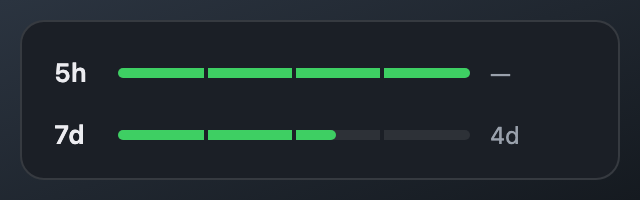
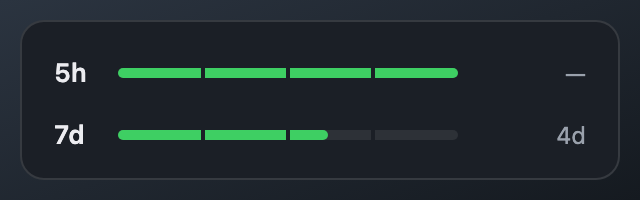
The panel is the size of what it holds
The window's floor was 120 px against 80 px of content, so two rows sat on
forty pixels of dead panel. The line stopped at a fixed 176 px and the
countdowns ended each row wherever their text ran out, leaving a ragged margin
down the right.

The line now takes whatever the name and the countdown leave, the countdowns
share one right-aligned column, and the window closes on the last row.

Claude-Session: https://claude.ai/code/session_01G9UiyVncQyDqDUhci5medM

diff --git a/src/styles.css b/src/styles.css
@@ -14,9 +14,6 @@ html, body {
 /* The panel floats over someone else's screen, so the surface is opaque:
    translucency is only for windows that sit over our own backdrop. */
 .panel {
-  /* How long a full bar is. The window is 320 wide; the name to the left and
-     the longest countdown to the right take the rest. */
-  --track: 176px;
   box-sizing: border-box;
   /* min-height, not height: the window is sized to this box, and a wrapped
      line has to make the box taller rather than be cut off by it. */
@@ -64,9 +61,11 @@ html, body {
    last land in the same glance. */
 .gauge {
   position: relative;
-  width: var(--track);
+  /* Takes whatever the name and the countdown leave: a fixed track left a
+     margin of dead panel on the right, and the longer the line, the finer the
+     reading it can carry. */
+  flex: 1;
   height: 5px;
-  flex: none;
   --notch: 0.8px;
   -webkit-mask-image: linear-gradient(90deg,
     #000 0 calc(25% - var(--notch)), transparent calc(25% - var(--notch)) calc(25% + var(--notch)),
@@ -93,7 +92,7 @@ html, body {
   display: block;
   height: 5px;
   border-radius: 3px;
-  width: calc(var(--track) * var(--pct, 0) / 100);
+  width: calc(var(--pct, 0) * 1%);
   /* An empty tank must still draw something: a bar that vanishes at 0% reads
      as a rendering failure, which is the same rule tray_icon.rs applies. */
   min-width: 3px;
@@ -103,7 +102,12 @@ html, body {
 .bar.low { background: #f2b705; }
 .bar.critical { background: #ff7b7f; }
 
+/* A column, not a tail: the countdowns differ in width ("3d" against
+   "4h 53m"), and left to themselves they ended the two rows at different x
+   and left a ragged margin beside the panel's edge. */
 .until {
+  flex: 0 0 54px;
+  text-align: right;
   color: #9aa1ac;
   font-size: 12px;
   font-variant-numeric: tabular-nums;

diff --git a/src-tauri/src/lib.rs b/src-tauri/src/lib.rs
@@ -28,12 +28,10 @@ use tauri_plugin_updater::UpdaterExt;
 const POLL_SECS: u64 = 30;
 
 const PANEL_W: f64 = 320.0;
-/// Sized to the content: the update row is not always there, and a fixed tall
-/// window would show dead air above the footer the rest of the time.
 /// A first guess only, so the window opens at about the right size — the page
-/// measures itself and calls `fit_panel` with the truth a frame later.
-const PANEL_H: f64 = 130.0;
-const UPDATE_ROW_H: f64 = 48.0;
+/// measures itself and calls `fit_panel` with the truth a frame later. Two
+/// rows and the padding around them, which is what the panel usually holds.
+const PANEL_H: f64 = 80.0;
 
 /// Where the panel's "how do I set this up?" button lands: the README section
 /// with the two lines a status line needs.
@@ -99,7 +97,9 @@ fn hide_panel(app: AppHandle) {
 #[tauri::command]
 fn fit_panel(app: AppHandle, height: f64) {
     let Some(window) = app.get_webview_window("panel") else { return };
-    let _ = window.set_size(tauri::LogicalSize::new(PANEL_W, height.clamp(120.0, 520.0)));
+    // The floor is a sanity rail, not a shape: it exists so a measurement that
+    // arrives as zero cannot collapse the window into a sliver.
+    let _ = window.set_size(tauri::LogicalSize::new(PANEL_W, height.clamp(60.0, 520.0)));
 }
 
 #[tauri::command]
@@ -212,11 +212,7 @@ fn toggle_panel(app: &AppHandle, rect: Option<&tauri::Rect>) {
         return;
     }
     refresh(app);
-    let panel_h = app
-        .try_state::<AppState>()
-        .map(|s| PANEL_H + if s.update_badge.load(Ordering::Relaxed) { UPDATE_ROW_H } else { 0.0 })
-        .unwrap_or(PANEL_H);
-    let _ = window.set_size(tauri::LogicalSize::new(PANEL_W, panel_h));
+    let _ = window.set_size(tauri::LogicalSize::new(PANEL_W, PANEL_H));
     let scale = window.scale_factor().unwrap_or(1.0);
     let (px, py) = match rect.map(|r| (r.position, r.size)) {
         Some((tauri::Position::Physical(p), tauri::Size::Physical(s))) => {
@@ -238,7 +234,7 @@ fn toggle_panel(app: &AppHandle, rect: Option<&tauri::Rect>) {
     // Centred under the icon on macOS; above the taskbar icon on Windows,
     // where the tray lives at the bottom of the screen.
     let x = (px - PANEL_W / 2.0).max(8.0);
-    let y = if py > 400.0 { py - panel_h - 46.0 } else { py + 6.0 };
+    let y = if py > 400.0 { py - PANEL_H - 46.0 } else { py + 6.0 };
     let _ = window.set_position(tauri::LogicalPosition::new(x, y));
     if let Some(state) = app.try_state::<AppState>() {
         if let Ok(mut t) = state.panel_shown_at.lock() {

diff --git a/CHANGELOG.md b/CHANGELOG.md
@@ -13,6 +13,11 @@
 - Freshness is now the disclaimer it always was: nothing while the numbers
   describe the session in front of you, one amber line once the status line
   has been quiet for half an hour.
+- The panel is the size of what it holds. Its floor was 120 px against 80 px
+  of content, the line stopped short of the right margin, and the countdowns
+  ended each row wherever their text ran out. Now the line takes the width the
+  name and the countdown leave, the countdowns share one right-aligned column,
+  and the window closes on the last row.
 - The tray icon draws two pills instead of two rectangles, antialiased, badge
   included. An almost-empty window keeps a full round end rather than a sliver
   clipped by the cap — a fault, not an empty tank, is what a sliver reads as.
